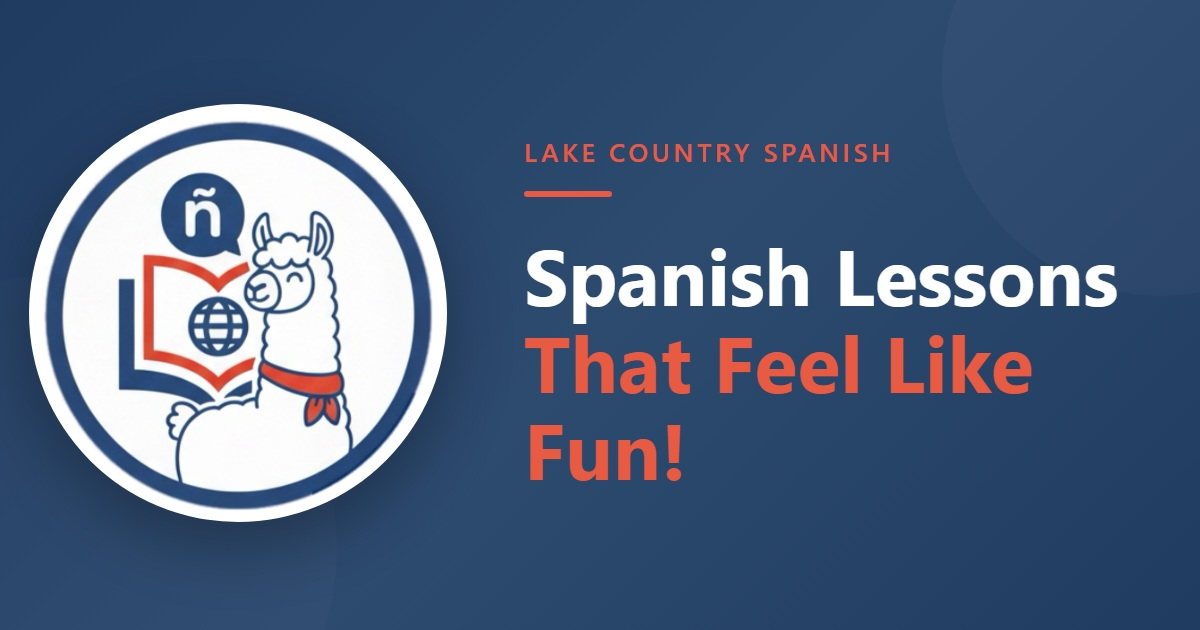
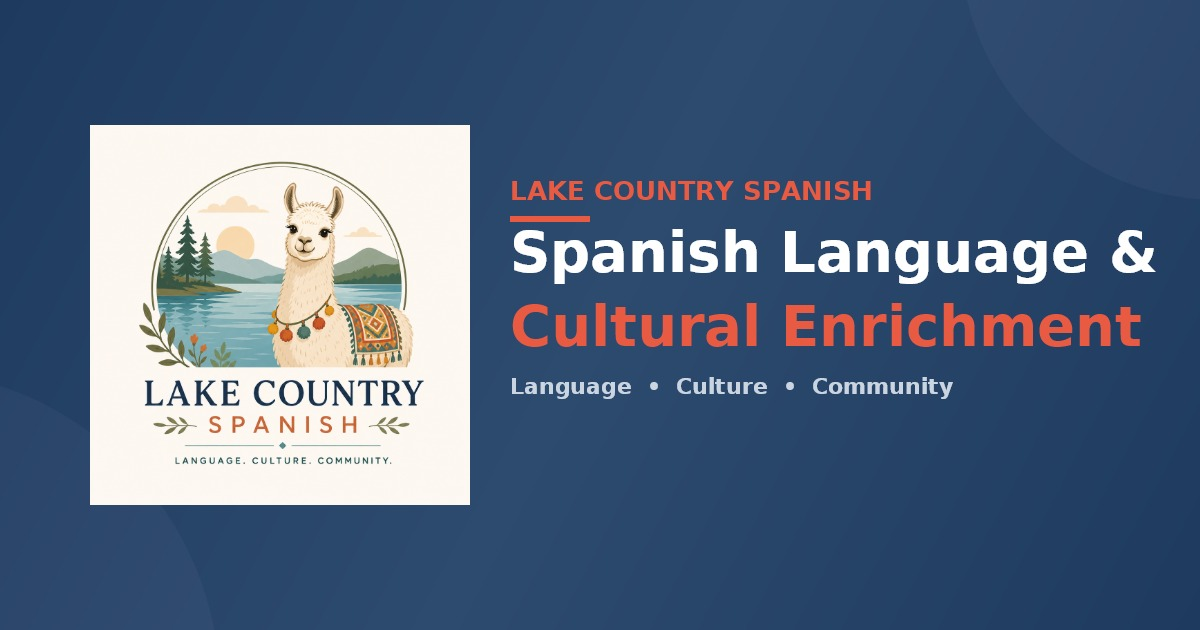
Home: adopt Cece's copy + social preview overhaul (items 2/3/5/6/8)
Round-one of Cece's requested changes (items she flagged; Karen wants
to keep the site uncluttered so this is the safe/no-new-section batch):

Item 2 — Hero copy
- Eyebrow: "Real Spanish. Real culture. Real conversation." replaced
  with "Language • Culture • Community" (Cece's tagline).
- Subhead: "Every lesson is a new adventure..." replaced with
  "Engaging Spanish programs where children learn to communicate with
  confidence while discovering the cultures of the Spanish-speaking
  world." — matches the school-inquiry angle Cece is pitching.
- H1 unchanged ("Learn Spanish. Explore the World.") per Cece.

Item 3 — Button text
- "Our Programs" → "Explore Our Programs"
- "Bring LCS to Your School" → "Bring Spanish to Your School"
- Both keep existing target URLs (/programs and /Contact respectively).

Item 5 — Section rename
- "Travel the Spanish-Speaking World With Us!" → "Discover the
  Spanish-Speaking World" (Cece's proposed title). Existing offerings
  carousel underneath unchanged.

Item 6 — "Why parents choose us" pillar reframe
- Existing "More than a Language — A Cultural Journey" section
  narrative intro kept (it's LCS's differentiator; Karen's clutter
  concern held).
- Below the narrative, added a small "Why parents choose us" eyebrow
  and replaced the 5-pillar row with Cece's 4 pillars:
    Communication First, Culture in Every Lesson,
    Designed for Children, Experienced Educators
- Anchor IDs preserved (#aprende, #conecta, #explora, #respeta) so
[…]

Changed region(s): [[0.0, 0.1508, 0.9867, 0.8444], [0.4317, 0.6635, 0.5858, 0.7841]]

diff --git a/src/LakeCountrySpanish.Web/wwwroot/og-image-template.html b/src/LakeCountrySpanish.Web/wwwroot/og-image-template.html
@@ -116,9 +116,12 @@
             <div class="tagline">Lake Country Spanish</div>
             <div class="accent-line"></div>
             <h1 class="title">
-                <span class="title-line1">Learn Spanish.</span>
-                <span class="title-line2">Explore the World.</span>
+                <span class="title-line1">Spanish Language &amp;</span>
+                <span class="title-line2">Cultural Enrichment</span>
             </h1>
+            <div style="color:#cbd5e1; font-size:22px; font-weight:600; letter-spacing:1.5px; margin-top:22px;">
+                Language &nbsp;&bull;&nbsp; Culture &nbsp;&bull;&nbsp; Community
+            </div>
         </div>
     </div>
 </body>
